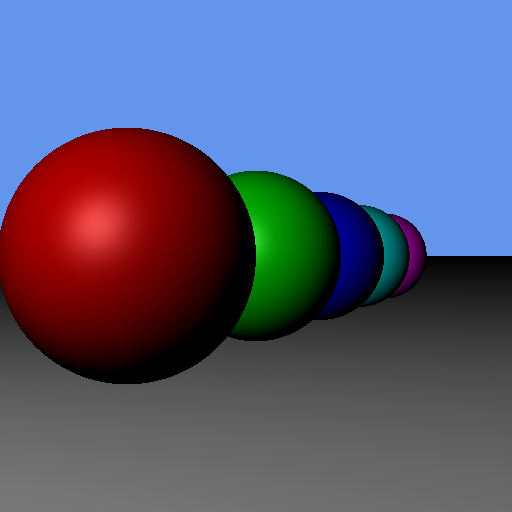
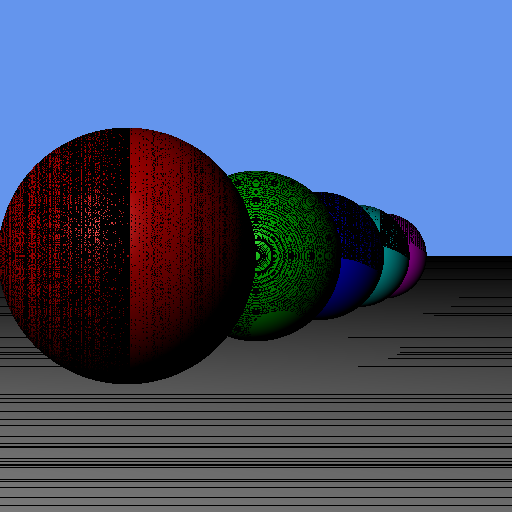
シャドウ実装途中

diff --git a/raytracing_lib.cpp b/raytracing_lib.cpp
@@ -47,7 +47,7 @@ IntersectionPoint *Sphere::isIntersectionRay(Ray *ray)
         float t1 = calcQuadraticFormula(a, b, c, FIRST_SOLUTION);
         float t2 = calcQuadraticFormula(a, b, c, SECOND_SOLUTION);
         // recordLine("t1:%lf, t2:%lf\n", t1, t2);
-        if (t1 > 0 || t2 > 0)
+        if (t1 >= 0 || t2 >= 0)
         {
             // 交点は値が小さい方を採用
             IntersectionPoint *point = new IntersectionPoint();
@@ -73,7 +73,7 @@ IntersectionPoint *Plane::isIntersectionRay(Ray *ray)
 
     float t = (position - ray->startPoint).dot(normal) / dn;
     // 交点あり
-    if (t > 0)
+    if (t >= 0)
     {
         IntersectionPoint *point = new IntersectionPoint();
         point->position = ray->startPoint + t * ray->direction;
@@ -206,9 +206,15 @@ Color phongShading(
 // 先頭の要素（ポインタ）の位置を指しているのでダブルポインタ
 IntersectionResult *intersectionWithAll(Shape **geometry, int geometryNum, Ray *ray)
 {
+    return intersectionWithAll(geometry, geometryNum, ray, FLT_MAX, false);
+}
+
+IntersectionResult *intersectionWithAll(
+    Shape **geometry, int geometryNum, Ray *ray, float maxDistance, bool exitOnceFound)
+{
     IntersectionResult *result = new IntersectionResult();
 
-    float minDistance = 10e6; // レイの視点との最小距離
+    float minDistance = FLT_MAX; // レイの視点との最小距離
 
     // 全オブジェクトの交点を調べ，レイの視点に最も近い交点を決定する
     for (size_t idx = 0; idx < geometryNum; idx++)
@@ -222,6 +228,10 @@ IntersectionResult *intersectionWithAll(Shape **geometry, int geometryNum, Ray *
 
         // レイの始点から交点への距離計算
         float distance = (point->position - ray->startPoint).magnitude();
+
+        // 交差とみなす最大距離を超えた場合はスキップ
+        if (distance > maxDistance)
+            continue;
 
         // 最小距離なら描画点に指定
         if (distance < minDistance)
@@ -240,6 +250,10 @@ IntersectionResult *intersectionWithAll(Shape **geometry, int geometryNum, Ray *
             result->intersectionPoint = new IntersectionPoint();
             memmove(result->intersectionPoint, point, sizeof(IntersectionPoint));
         }
+
+        // 1度の交差で計算をやめる場合
+        if (exitOnceFound)
+            break;
     }
 
     return result;

diff --git a/raytracing_shadow.cpp b/raytracing_shadow.cpp
@@ -50,16 +50,41 @@ int main()
             // レイを生成
             Ray ray = createRay(camera, x, y, bitmap.width, bitmap.height);
 
+            // 全物体との交差判定
             IntersectionResult *intersectionResult =
                 intersectionWithAll(geometry, GEOMETRY_NUM, &ray);
 
             if (intersectionResult->intersectionPoint != nullptr)
             {
-                // 交点情報表示
-                Color color = phongShading(
-                    *intersectionResult->intersectionPoint, ray,
-                    pointLight, intersectionResult->shape->material);
-                drawDot(&bitmap, x, y, color);
+                // シャドウレイによる交差判定
+                IntersectionPoint *intersectionPoint = intersectionResult->intersectionPoint;
+
+                // 入射ベクトル 視点からみた光源
+                Vector3 incident =
+                    (pointLight.position - intersectionPoint->position).normalize();
+
+                // シャドウレイ
+                Ray shadowRay;
+                // 交差点を始点とするとその物体自身と交差したと判定されるため，
+                // 入射ベクトル(単位ベクトル)側に少しだけずらす
+                shadowRay.startPoint = intersectionPoint->position + 1 / 32 * incident;
+                shadowRay.direction = incident;
+
+                // 光源までの距離
+                float lightDistance = (pointLight.position - shadowRay.startPoint).magnitude();
+
+                // シャドウレイとオブジェクトとの交差判定
+                IntersectionResult *shadowResult =
+                    intersectionWithAll(geometry, GEOMETRY_NUM, &shadowRay, lightDistance, true);
+
+                // 点と光源の間に何もなかったら一回目の交差の色描画
+                if (shadowResult->intersectionPoint != nullptr)
+                {
+                    Color color = phongShading(
+                        *intersectionResult->intersectionPoint, ray,
+                        pointLight, intersectionResult->shape->material);
+                    drawDot(&bitmap, x, y, color);
+                }
             }
             else
             {

diff --git a/raytracing_lib.hpp b/raytracing_lib.hpp
@@ -1,5 +1,6 @@
 #include <memory.h>
 #include <stdio.h>
+#include <float.h>
 #include "myPng.hpp"
 #include "mymath.hpp"
 #include "log.hpp"
@@ -158,6 +159,10 @@ struct IntersectionResult
 
 // すべてのオブジェクトと交差判定
 IntersectionResult *intersectionWithAll(Shape **geometry, int geometryNum, Ray *ray);
+
+// すべてのオブジェクトと交差判定（シャドウレイ用）
+IntersectionResult *intersectionWithAll(
+    Shape **geometry, int geometryNum, Ray *ray, float maxDistance, bool exitOnceFound);
 
 // レイトレーシング
 void RayTrace(BitMapData *bitmap, Shape *geometry, Camera *camera, PointLight *pointLight);
